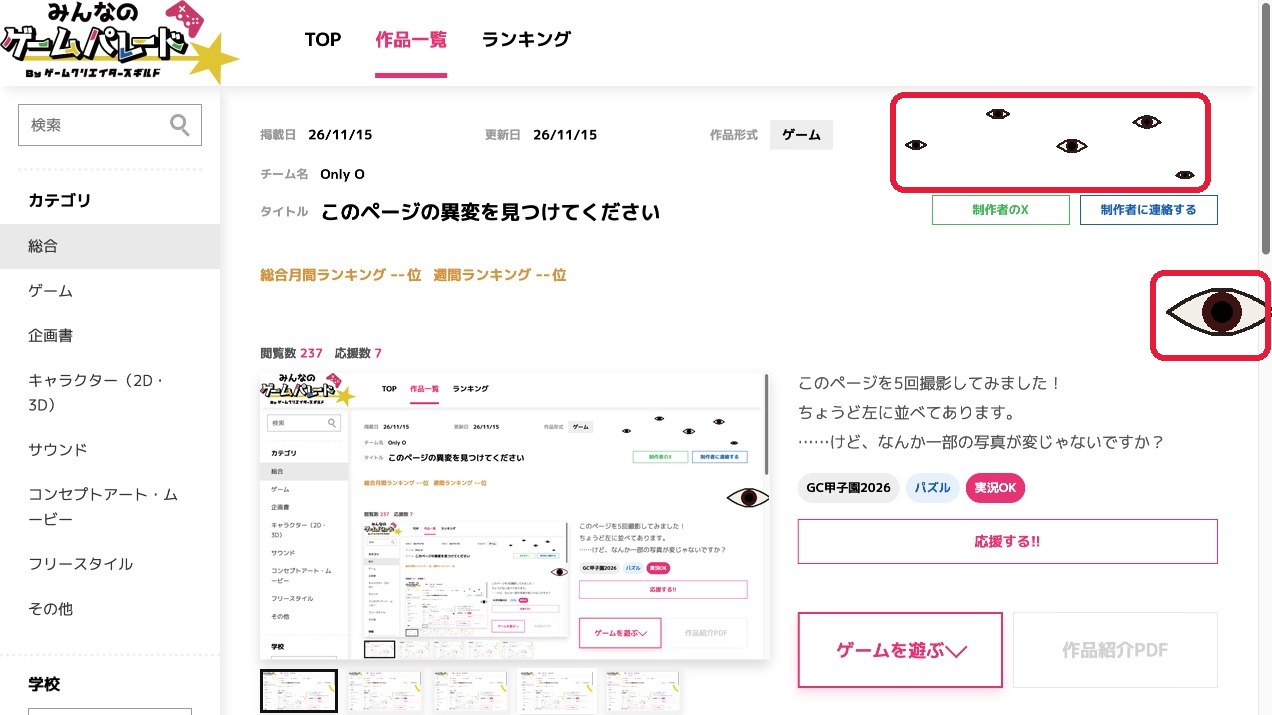
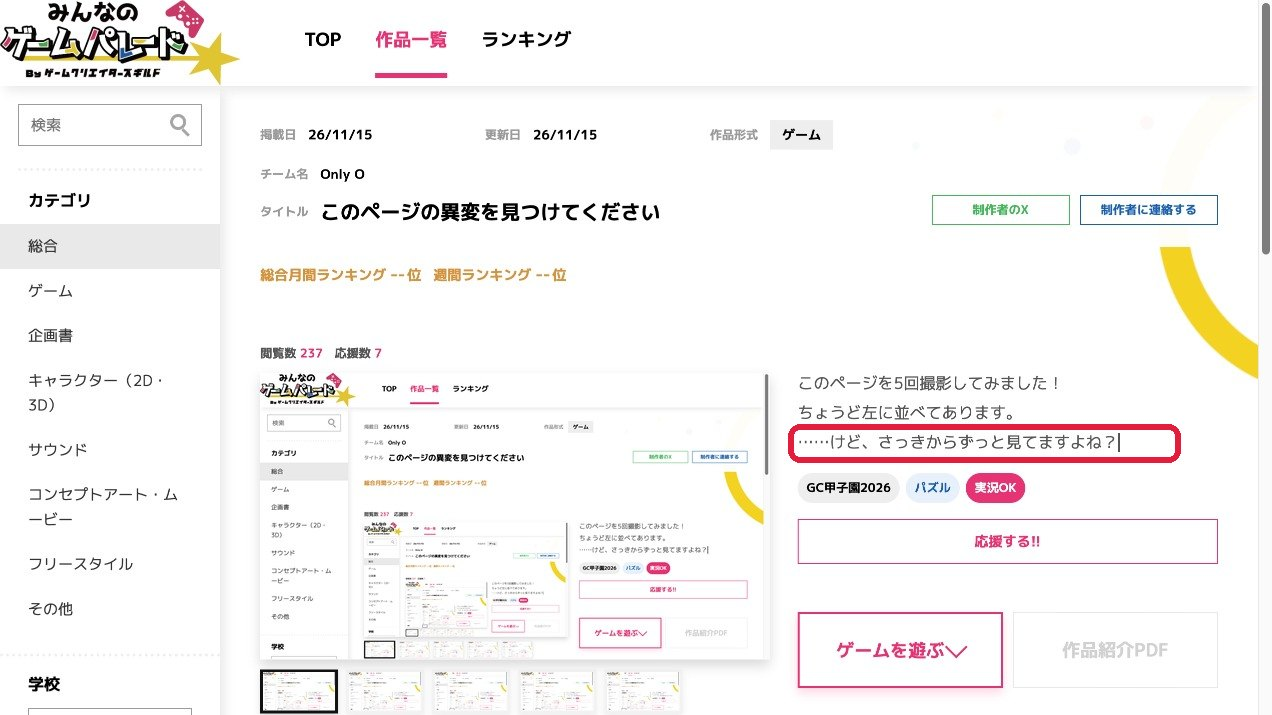
3枚目の異変を、説明文がひとりでに書き換わる演出に変更

diff --git a/index.html b/index.html
@@ -159,7 +159,7 @@
   const ITEMS = [
     { anomaly: true,  text: "しばらく見ていると、画像の中のページが回転しながら奥へ沈んでいきます。" },
     { anomaly: false, text: "異変はありません。どれだけ待っても、何も起きません。" },
-    { anomaly: true,  text: "ときどき、右の黄色い弧と背景の点が目に変わり、こちらを見てまばたきします。" },
+    { anomaly: true,  text: "しばらくすると、右の説明文の3行目に文字入力のカーソルが現れ、「なんか一部の写真が変じゃないですか？」が消されて「さっきからずっと見てますよね？」と打ち込まれます。" },
     { anomaly: true,  text: "しばらくすると、6枚目のサムネイルが現れます（このサイトには画像を5枚までしか載せられません）。そして誰も押していないのに6枚目が開き、暗闇の中で目が開きます。" },
     { anomaly: true,  text: "しばらくすると、写真の中で選ばれているサムネイルが、ひとりでに1枚目から3枚目へ移ります。誰も押していないのに。" },
   ];
